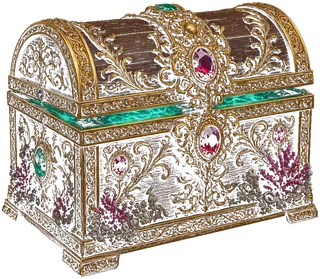
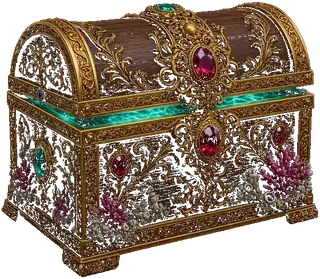
fix: oversized opaque HD bonus chests/pearl and clear daily wheel
Chests scale to ~70% of inner panel with opaque plates, gold glow rings,
and large ?/mult badges; post-pick keeps all three open at the same size
(picked bright, others dimmed). Tap clam targets ~65% panel height with
opaque backplate. Daily wheel drops the cramped prizes chip list so wedge
labels stay readable. Alpha-hardened bonus webps + tg22 cache bust.

diff --git a/bonus-choice-art.js b/bonus-choice-art.js
@@ -138,64 +138,88 @@
     const dim = !!opts.dim;
     const im = open ? get('chestOpen') || get('chestOpenSm') : get('chestClosed') || get('chestClosedSm');
     g.save();
-    if (dim) g.globalAlpha = 0.42;
-
-    // soft ground glow
-    const glow = g.createRadialGradient(0, 18 * scale, 4, 0, 18 * scale, 70 * scale);
-    glow.addColorStop(0, open && !dim ? 'rgba(255,210,80,.45)' : 'rgba(80,200,220,.2)');
-    glow.addColorStop(1, 'rgba(255,200,80,0)');
-    g.fillStyle = glow;
+    // Solid dark plate + ring always fully opaque so pillars never show through
+    g.fillStyle = 'rgba(4,12,22,1)';
     g.beginPath();
-    g.ellipse(0, 22 * scale, 58 * scale, 14 * scale, 0, 0, TAU);
+    g.ellipse(0, 6 * scale, 82 * scale, 72 * scale, 0, 0, TAU);
+    g.fill();
+    // Soft drop shadow under
+    g.fillStyle = 'rgba(0,0,0,.55)';
+    g.beginPath();
+    g.ellipse(0, 48 * scale, 80 * scale, 18 * scale, 0, 0, TAU);
     g.fill();
 
-    // Compact image box — lids/coins must clear panel top with margin
-    const maxW = 120 * scale, maxH = 100 * scale;
-    if (!drawContain(g, im, 0, 0, maxW, maxH)) {
+    // Gold glow ring behind chest
+    const ring = g.createRadialGradient(0, -4 * scale, 10 * scale, 0, 0, 110 * scale);
+    ring.addColorStop(0, open && !dim ? 'rgba(255,230,120,.85)' : 'rgba(255,215,90,.7)');
+    ring.addColorStop(0.35, 'rgba(255,190,70,.4)');
+    ring.addColorStop(0.7, 'rgba(220,170,50,.18)');
+    ring.addColorStop(1, 'rgba(255,200,80,0)');
+    g.fillStyle = ring;
+    g.beginPath();
+    g.arc(0, 0, 100 * scale, 0, TAU);
+    g.fill();
+    g.strokeStyle = dim ? 'rgba(255,210,120,.7)' : 'rgba(255,230,140,.95)';
+    g.lineWidth = 5 * scale;
+    g.beginPath();
+    g.arc(0, 0, 78 * scale, 0, TAU);
+    g.stroke();
+
+    // Large HD chest — ~60-70% panel height
+    const maxW = 180 * scale, maxH = 165 * scale;
+    if (dim) g.globalAlpha = 0.78;
+    if (!drawContain(g, im, 0, -6 * scale, maxW, maxH)) {
       g.fillStyle = '#8a5520';
-      rr(g, -44 * scale, -28 * scale, 88 * scale, 60 * scale, 8 * scale);
+      rr(g, -55 * scale, -40 * scale, 110 * scale, 80 * scale, 10 * scale);
       g.fill();
     }
+    g.globalAlpha = 1;
 
     if (open && !dim) {
-      paintCoinBurst(g, 0, -2 * scale, 8, 3);
-      const inn = g.createRadialGradient(0, -2 * scale, 2, 0, -2 * scale, 32 * scale);
-      inn.addColorStop(0, 'rgba(255,230,120,.35)');
+      paintCoinBurst(g, 0, -8 * scale, 10, 3);
+      const inn = g.createRadialGradient(0, -4 * scale, 2, 0, -4 * scale, 45 * scale);
+      inn.addColorStop(0, 'rgba(255,230,120,.4)');
       inn.addColorStop(1, 'rgba(255,180,40,0)');
       g.fillStyle = inn;
       g.beginPath();
-      g.ellipse(0, -2 * scale, 32 * scale, 16 * scale, 0, 0, TAU);
+      g.ellipse(0, -2 * scale, 40 * scale, 20 * scale, 0, 0, TAU);
       g.fill();
     }
 
     if (mult != null) {
       const label = mult + '\u00d7';
-      const ly = 58 * scale; // under chest, inside budgeted height
-      const bw = 48 * scale, bh = 22 * scale;
-      rr(g, -bw / 2, ly - bh / 2, bw, bh, 9 * scale);
+      const ly = 92 * scale;
+      const bw = 72 * scale, bh = 32 * scale;
+      rr(g, -bw / 2, ly - bh / 2, bw, bh, 12 * scale);
       const bgd = g.createLinearGradient(0, ly - bh / 2, 0, ly + bh / 2);
-      bgd.addColorStop(0, dim ? '#c8b070' : '#fff0b0');
-      bgd.addColorStop(0.55, dim ? '#a88830' : '#f0b532');
-      bgd.addColorStop(1, dim ? '#7a6018' : '#b9770e');
+      bgd.addColorStop(0, dim ? '#d4bc78' : '#fff0b0');
+      bgd.addColorStop(0.55, dim ? '#c09840' : '#f0b532');
+      bgd.addColorStop(1, dim ? '#8a6820' : '#b9770e');
       g.fillStyle = bgd;
       g.fill();
       g.strokeStyle = '#7a4a0c';
-      g.lineWidth = 2 * scale;
+      g.lineWidth = 2.5 * scale;
       g.stroke();
-      g.font = '900 ' + Math.round(16 * scale) + 'px system-ui,sans-serif';
+      g.font = '900 ' + Math.round(20 * scale) + 'px system-ui,sans-serif';
       g.textAlign = 'center';
       g.textBaseline = 'middle';
       g.fillStyle = '#3a2000';
       g.fillText(label, 0, ly + 1 * scale);
     } else if (!open) {
-      g.font = '900 ' + Math.round(20 * scale) + 'px system-ui,sans-serif';
+      // Large ? badge under closed chest
+      const ly = 92 * scale;
+      const bw = 56 * scale, bh = 40 * scale;
+      rr(g, -bw / 2, ly - bh / 2, bw, bh, 12 * scale);
+      g.fillStyle = 'rgba(8,20,30,.72)';
+      g.fill();
+      g.strokeStyle = '#c5a45d';
+      g.lineWidth = 2.5 * scale;
+      g.stroke();
+      g.font = '900 ' + Math.round(30 * scale) + 'px system-ui,sans-serif';
       g.textAlign = 'center';
       g.textBaseline = 'middle';
-      g.lineWidth = 4 * scale;
-      g.strokeStyle = 'rgba(10,20,30,.75)';
       g.fillStyle = '#fff6d0';
-      g.strokeText('?', 0, 58 * scale);
-      g.fillText('?', 0, 58 * scale);
+      g.fillText('?', 0, ly + 1 * scale);
     }
     g.restore();
   }
@@ -227,7 +251,7 @@
       g.stroke();
     }
 
-    const max = (160 + pulse * 6) * s;
+    const max = (200 + pulse * 8) * s;
     if (!drawContain(g, im, 0, 0, max, max)) {
       g.fillStyle = '#fff0c8';
       g.beginPath();
@@ -356,7 +380,7 @@
     paintBgPlate(g, W, H);
 
     // Generous insets — timer stroke and pearl shell must clear the gold frame
-    const pad = Math.max(32, Math.min(W, H) * 0.085);
+    const pad = Math.max(18, Math.min(W, H) * 0.045);
     const heatH = 30;
     const usableH = H - pad * 2 - heatH;
     const usableW = W - pad * 2;
@@ -415,12 +439,31 @@
 
     // pearl — scale so aura fits remaining box with margin
     const pulse = state.pulse || 0.25;
-    const pearlCx = pad + usableW * 0.58;
-    const pearlCy = pad + heatH + usableH * 0.60;
-    const pearlBox = Math.min(usableW * 0.40, usableH * 0.62);
-    const pearlScale = (pearlBox * 0.30) / (100 + pulse * 12);
+    // Clam ~65% of panel height, centered in remaining play area (right of timer)
+    const pearlCx = pad + usableW * 0.55;
+    const pearlCy = pad + heatH + usableH * 0.52;
+    const pearlTargetH = Math.min(usableH * 0.82, H * 0.68);
+    // paintPearlClam draws image at max≈200*s — scale so shell ≈ pearlTargetH (~65% panel)
+    const pearlScale = pearlTargetH / 200;
     g.save();
     g.translate(pearlCx, pearlCy);
+    // Opaque pop: dark vignette + gold ring behind clam
+    g.fillStyle = 'rgba(2,10,18,0.85)';
+    g.beginPath();
+    g.ellipse(0, pearlTargetH * 0.06, pearlTargetH * 0.5, pearlTargetH * 0.48, 0, 0, TAU);
+    g.fill();
+    g.fillStyle = 'rgba(0,0,0,.5)';
+    g.beginPath();
+    g.ellipse(0, pearlTargetH * 0.32, pearlTargetH * 0.44, pearlTargetH * 0.14, 0, 0, TAU);
+    g.fill();
+    const pr = g.createRadialGradient(0, 0, 10, 0, 0, pearlTargetH * 0.58);
+    pr.addColorStop(0, 'rgba(255,230,140,.55)');
+    pr.addColorStop(0.55, 'rgba(255,200,80,.2)');
+    pr.addColorStop(1, 'rgba(255,200,80,0)');
+    g.fillStyle = pr;
+    g.beginPath();
+    g.arc(0, 0, pearlTargetH * 0.55, 0, TAU);
+    g.fill();
     paintPearlClam(g, { scale: pearlScale, pulse: pulse });
     g.restore();
 
@@ -438,19 +481,26 @@
 
   function paintChestPanel(g, W, H, chests) {
     paintBgPlate(g, W, H);
+    // Darken mid plate so opaque chests read against pillars
+    const veil = g.createRadialGradient(W / 2, H * 0.5, 20, W / 2, H * 0.5, Math.max(W, H) * 0.55);
+    veil.addColorStop(0, 'rgba(2,10,20,.15)');
+    veil.addColorStop(1, 'rgba(2,10,20,.55)');
+    g.fillStyle = veil;
+    g.fillRect(0, 0, W, H);
+
     const n = chests.length;
-    const padY = Math.max(20, H * 0.10);
-    const padX = Math.max(12, W * 0.03);
+    const padY = Math.max(16, Math.round(H * 0.06)); // keep ~10–18px clear of frame
+    const padX = Math.max(8, W * 0.02);
     const slot = (W - padX * 2) / n;
-    // Fit image(~50s) + badge(~70s) with clear top/bottom margins
-    const scaleByH = (H - padY * 2) / 175;
-    const scaleByW = (slot * 0.78) / 120;
-    const scale = Math.max(0.35, Math.min(scaleByH, scaleByW, 0.72));
+    // Content units at scale 1: image ~156 tall + badge under ~96 → ~252
+    // Target ~65% of H for chest art alone → scale ≈ (0.65*H)/150
+    const scaleByH = (H - padY * 2) / 205;
+    const scaleByW = (slot * 0.94) / 180;
+    const scale = Math.max(0.95, Math.min(scaleByH, scaleByW, 1.55));
     for (let i = 0; i < n; i++) {
       const c = chests[i];
       g.save();
-      // Shift down so lids clear the top frame; badge still above bottom
-      g.translate(padX + slot * (i + 0.5), H * 0.58);
+      g.translate(padX + slot * (i + 0.5), H * 0.48);
       paintChest(g, {
         scale: scale,
         open: !!c.open,

diff --git a/index.html b/index.html
@@ -5,7 +5,7 @@
 <script src="config.js?v=tg20"></script>
 <script>window.RR_AUTHORITATIVE=true;</script>
 <link rel="stylesheet" href="temple-ui.css?v=tg20">
-<link rel="stylesheet" href="bonus-choice.css?v=tg21">
+<link rel="stylesheet" href="bonus-choice.css?v=tg22">
 <script>if(/tgWebAppData=/.test(location.hash))document.documentElement.classList.add('tgmode')</script>
 <script>/* load Telegram Mini App SDK only when opened inside Telegram */ if (/tgWebAppData=/.test(location.hash)) document.write('<script src="https://telegram.org/js/telegram-web-app.js"><\/script>');</script>
 <meta name="viewport" content="width=device-width, initial-scale=1, maximum-scale=1, user-scalable=no, viewport-fit=cover">
@@ -434,10 +434,10 @@ button{font:inherit;color:inherit;border:0;background:none;cursor:pointer;touch-
 <script src="reef-motion.js?v=tg20"></script>
 <script src="reef-laser-pickups.js?v=tg20"></script>
 <script src="bonusmath.js?v=tg20"></script>
-<script src="bonus-choice-math.js?v=tg21"></script>
-<script src="daily-wheel-art.js?v=tg21"></script>
-<script src="bonus-choice-art.js?v=tg21"></script>
-<script src="bonus-choice-ui.js?v=tg21"></script>
+<script src="bonus-choice-math.js?v=tg22"></script>
+<script src="daily-wheel-art.js?v=tg22"></script>
+<script src="bonus-choice-art.js?v=tg22"></script>
+<script src="bonus-choice-ui.js?v=tg22"></script>
 <script src="game.js?v=tg20"></script>
 <script src="music.js?v=tg20"></script>
 <script src="authority-bridge.js?v=tg20"></script>

diff --git a/daily-wheel-art.js b/daily-wheel-art.js
@@ -337,39 +337,7 @@
     g.fillStyle = '#cde5e7';
     g.fillText(opts.streakLabel || 'DAY 1', rightX, py + 70);
 
-    // Large readable prize list on the empty right side
-    if (opts.prizes && opts.fmt) {
-      const uniq = [];
-      const seen = new Set();
-      for (const c of opts.prizes) {
-        const lab = opts.fmt(c);
-        if (seen.has(lab)) continue;
-        seen.add(lab);
-        uniq.push(lab);
-      }
-      g.font = '900 15px system-ui,sans-serif';
-      g.fillStyle = '#fff6d0';
-      g.strokeStyle = 'rgba(0,8,16,.9)';
-      g.lineWidth = 3;
-      let ly = py + 96;
-      g.font = '800 11px system-ui';
-      g.fillStyle = 'rgba(200,230,240,.85)';
-      g.fillText('PRIZES', rightX, ly);
-      ly += 22;
-      const show = uniq;
-      const listBottom = py + ph - 90;
-      const rowH = Math.min(22, Math.max(14, (listBottom - ly) / Math.max(1, show.length)));
-      g.font = '900 ' + Math.max(15, Math.min(22, rightW * 0.1)) + 'px system-ui,sans-serif';
-      for (const lab of show) {
-        const short = lab.endsWith('.00') ? lab.slice(0, -3) : lab;
-        g.strokeStyle = 'rgba(0,8,16,.92)';
-        g.lineWidth = 4.5;
-        g.strokeText(short, rightX, ly);
-        g.fillStyle = '#fffef6';
-        g.fillText(short, rightX, ly);
-        ly += rowH;
-      }
-    }
+    // No prize chip list — wedge labels are large/readable; keeps right column clean.
 
     if (opts.resultText) {
       g.font = '900 22px system-ui';

diff --git a/sw.js b/sw.js
@@ -1,6 +1,6 @@
 /* Reef Rumble service worker — installability + light caching.
    Never cache Cloudflare Worker API. Network-first for HTML so updates aren't stuck. */
-const CACHE = 'rr-static-tg21-bonus-hd';
+const CACHE = 'rr-static-tg22-bonus-hd';
 const PRECACHE = [
   './assets/bonus-bg.webp',
   './assets/bonus-chest-closed.webp',
